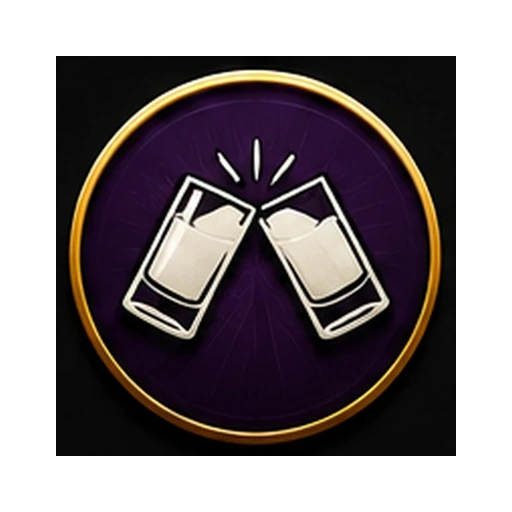
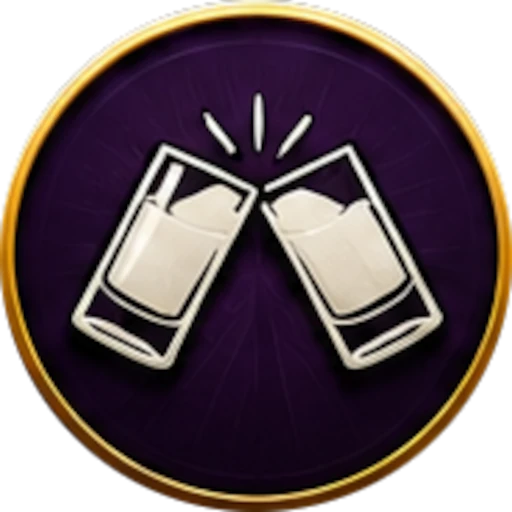
patch-foot-config-clamp-fix

diff --git a/src/pages/babyfoot/BabyFootConfig.tsx b/src/pages/babyfoot/BabyFootConfig.tsx
@@ -907,6 +907,103 @@ export default function BabyFootConfig({ go, store, params }: Props) {
     );
   }
 
+  function SelectedTeamStrip({
+    team,
+    onClear,
+  }: {
+    team: BabyFootTeam | null;
+    onClear: () => void;
+  }) {
+    if (!team) return null;
+
+    const logo = team.logoDataUrl || team.regionLogoDataUrl || null;
+    const name = team.name || "Équipe";
+    const playersCount = Array.isArray((team as any).players)
+      ? (team as any).players.length
+      : Array.isArray((team as any).playerIds)
+        ? (team as any).playerIds.length
+        : 0;
+
+    return (
+      <div
+        style={{
+          display: "flex",
+          alignItems: "center",
+          gap: 12,
+          padding: 12,
+          borderRadius: 18,
+          background: "rgba(255,255,255,0.06)",
+          border: `1px solid ${primary}33`,
+          boxShadow: "0 12px 28px rgba(0,0,0,0.35)",
+          minWidth: 0,
+          width: "100%",
+          boxSizing: "border-box",
+        }}
+      >
+        <div
+          style={{
+            width: 54,
+            height: 54,
+            borderRadius: 14,
+            overflow: "hidden",
+            border: `1px solid ${primary}33`,
+            background: "rgba(0,0,0,0.24)",
+            display: "grid",
+            placeItems: "center",
+            flex: "0 0 auto",
+          }}
+        >
+          {logo ? (
+            <img
+              src={logo}
+              alt={name}
+              style={{ width: "100%", height: "100%", objectFit: "cover" }}
+            />
+          ) : (
+            <div style={{ fontWeight: 1000, opacity: 0.9 }}>
+              {String(name).slice(0, 1).toUpperCase()}
+            </div>
+          )}
+        </div>
+
+        <div style={{ flex: 1, minWidth: 0 }}>
+          <div
+            style={{
+              fontWeight: 1000,
+              opacity: 0.94,
+              overflow: "hidden",
+              textOverflow: "ellipsis",
+              whiteSpace: "nowrap",
+            }}
+          >
+            {name}
+          </div>
+          <div style={{ marginTop: 3, fontSize: 12, opacity: 0.68, fontWeight: 800 }}>
+            {playersCount} joueur(s)
+          </div>
+        </div>
+
+        <button
+          type="button"
+          onClick={onClear}
+          style={{
+            border: `1px solid ${primary}33`,
+            background: "rgba(255,255,255,0.06)",
+            color: "#fff",
+            borderRadius: 999,
+            padding: "9px 12px",
+            fontWeight: 900,
+            cursor: "pointer",
+            flex: "0 0 auto",
+          }}
+        >
+          Retirer
+        </button>
+      </div>
+    );
+  }
+
+
   const aPlayersRef = useRef<HTMLDivElement | null>(null);
   const bPlayersRef = useRef<HTMLDivElement | null>(null);
 